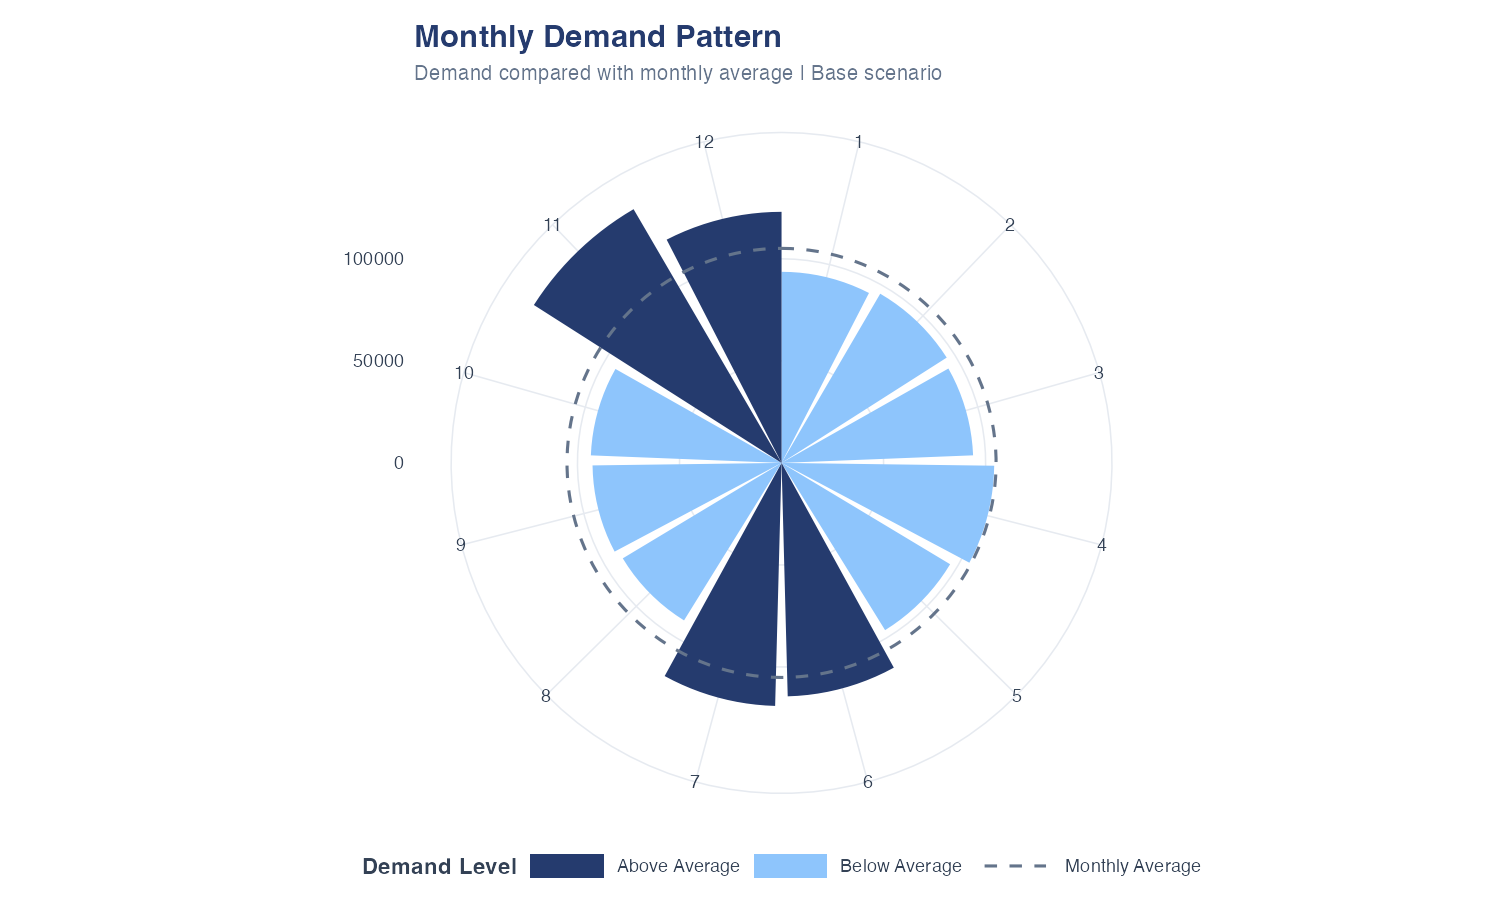
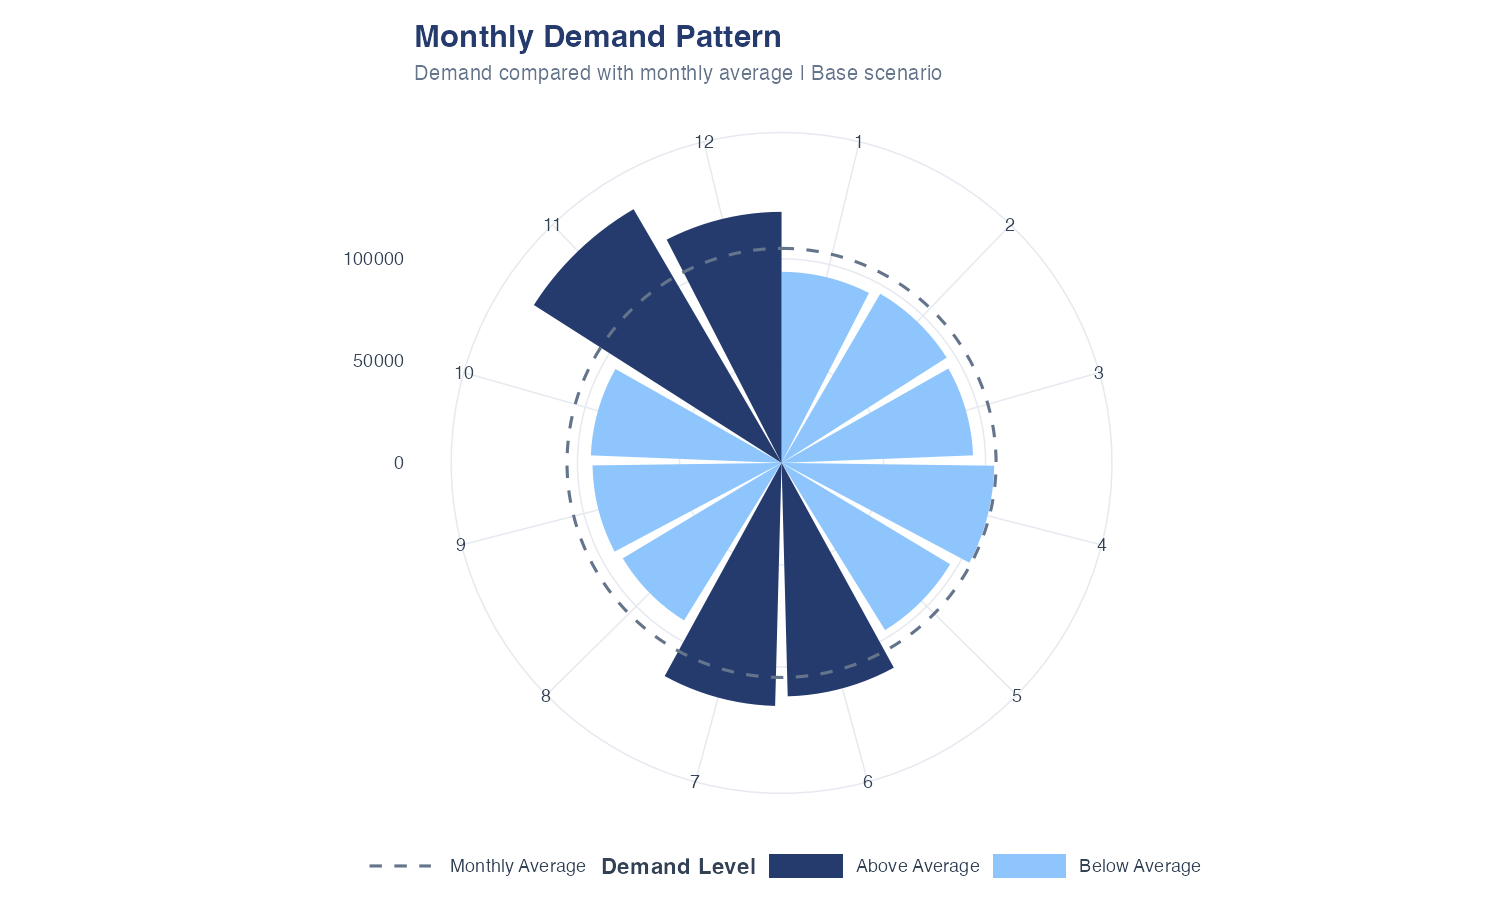
Add product demand bump chart and renumber forecast visual

Changed region(s): [[0.2453, 0.9333, 0.736, 0.9956]]

diff --git a/README.md b/README.md
@@ -481,7 +481,57 @@ ggplot(risk, aes(reorder(SKU, Shortage), Shortage)) +
 
 Mengidentifikasi SKU yang paling berkontribusi terhadap production shortage.
 
-### 6. Demand Forecast
+### 6. Bump Chart — Ranking Produk
+
+```r
+library(dplyr)
+library(ggplot2)
+library(lubridate)
+
+COLORS <- list(navy = "#253B6E", text = "#334155", white = "#FFFFFF")
+PRODUCT_COLORS <- c("Product A" = "#3F8EFC", "Product B" = "#6C5CE7", "Product C" = "#16B8A6", "Product D" = "#F26B5E")
+selected_scenario <- if ("Scenario" %in% names(dataset)) {
+  scenarios_in_visual <- unique(na.omit(as.character(dataset$Scenario)))
+  if (length(scenarios_in_visual) == 1) scenarios_in_visual else "Base"
+} else {
+  "Base"
+}
+visual_data <- dataset |> filter(Scenario == selected_scenario)
+
+df <- visual_data |>
+  mutate(
+    Tahun = year(Tanggal),
+    QuarterNum = quarter(Tanggal),
+    Quarter = paste0(Tahun, " Q", QuarterNum)
+  ) |>
+  group_by(Tahun, QuarterNum, Quarter, Produk) |>
+  summarise(Demand = sum(ScenarioDemand, na.rm = TRUE), .groups = "drop") |>
+  group_by(Quarter) |>
+  mutate(Rank = min_rank(desc(Demand))) |>
+  ungroup() |>
+  arrange(Tahun, QuarterNum)
+df$Quarter <- factor(df$Quarter, levels = unique(df$Quarter))
+
+ggplot(df, aes(Quarter, Rank, group = Produk, color = Produk)) +
+  geom_line(linewidth = 1.2, alpha = .9) +
+  geom_point(size = 4.2, fill = COLORS$white, shape = 21, stroke = 1.3) +
+  geom_text(aes(label = Rank), size = 3, color = COLORS$navy, fontface = "bold", vjust = -1.15) +
+  scale_color_manual(values = PRODUCT_COLORS, name = "Product") +
+  scale_y_reverse(breaks = 1:max(df$Rank, na.rm = TRUE), limits = c(max(df$Rank, na.rm = TRUE) + .5, .5)) +
+  labs(title = "Product Demand Ranking", subtitle = "Quarterly ranking based on demand | Base scenario", x = NULL, y = "Rank") +
+  theme_minimal(base_size = 11) +
+  theme(plot.title = element_text(face = "bold", size = 15, color = COLORS$navy),
+        plot.subtitle = element_text(size = 10, color = COLORS$text),
+        legend.position = "bottom", panel.grid.major.x = element_blank())
+```
+
+![Product Demand Ranking](output/05_demand_bump_chart.png)
+
+*Garis menghubungkan ranking produk antar kuartil; titik berlabel menunjukkan posisi demand setiap kuartal.*
+
+Menunjukkan perubahan ranking demand antar produk dari kuartal ke kuartal.
+
+### 7. Demand Forecast
 
 Forecast menggunakan **3-Month Moving Average** dan **12-Month Forward Forecast**.
 
@@ -491,51 +541,49 @@ library(dplyr)
 library(ggplot2)
 library(lubridate)
 
-COLORS <- list(navy = "#253B6E", violet = "#6C5CE7", aqua = "#16B8A6", sky = "#8EC5FC", slate = "#64748B", text = "#334155", white = "#FFFFFF")
+COLORS <- list(navy="#253B6E",violet="#6C5CE7",aqua="#16B8A6",sky="#8EC5FC",slate="#64748B",text="#334155",white="#FFFFFF")
+
 selected_scenario <- if ("Scenario" %in% names(dataset)) {
-  scenarios_in_visual <- unique(na.omit(as.character(dataset$Scenario)))
-  if (length(scenarios_in_visual) == 1) scenarios_in_visual else "Base"
-} else {
-  "Base"
-}
-visual_data <- dataset |> filter(Scenario == selected_scenario)
+  s <- unique(na.omit(as.character(dataset$Scenario)))
+  if ("Base" %in% s) "Base" else if (length(s)) s[1] else NA_character_
+} else NA_character_
+
+visual_data <- if ("Scenario" %in% names(dataset) && !is.na(selected_scenario))
+  dataset |> filter(as.character(Scenario)==selected_scenario) else dataset
 
 monthly <- visual_data |>
+  mutate(Tanggal=as.Date(Tanggal)) |>
   group_by(Tanggal) |>
-  summarise(
-    Demand = sum(ScenarioDemand),
-    Capacity = sum(Capacity),
-    .groups = "drop"
-  ) |>
+  summarise(Demand=sum(ScenarioDemand,na.rm=TRUE),Capacity=sum(Capacity,na.rm=TRUE),.groups="drop") |>
   arrange(Tanggal)
 
-df <- monthly |>
-  mutate(Forecast = (Demand + lag(Demand) + lag(Demand, 2)) / 3)
-future <- tibble(Tanggal = seq(max(df$Tanggal) %m+% months(1), max(df$Tanggal) %m+% months(12), by = "month"), Forecast = NA_real_)
-for (i in seq_len(nrow(future))) {
-  values <- c(tail(df$Demand, 3), future$Forecast[seq_len(i - 1)])
-  future$Forecast[i] <- mean(tail(values, 3), na.rm = TRUE)
+df <- monthly |> mutate(Forecast=(Demand+lag(Demand)+lag(Demand,2))/3)
+
+future <- tibble(Tanggal=seq(max(df$Tanggal,na.rm=TRUE)%m+%months(1),max(df$Tanggal,na.rm=TRUE)%m+%months(12),by="month"),Forecast=NA_real_)
+
+for(i in seq_len(nrow(future))){
+  values <- c(tail(df$Demand,3),future$Forecast[seq_len(i-1)])
+  future$Forecast[i] <- mean(tail(values,3),na.rm=TRUE)
 }
-sd_demand <- sd(df$Demand, na.rm = TRUE)
-future <- future |> mutate(Upper = Forecast + sd_demand, Lower = Forecast - sd_demand)
+
+sd_demand <- sd(df$Demand,na.rm=TRUE)
+future <- future |> mutate(Upper=Forecast+sd_demand,Lower=pmax(Forecast-sd_demand,0))
 
 ggplot() +
-  geom_ribbon(data = future, aes(Tanggal, ymin = Lower, ymax = Upper, fill = "Forecast Range"), alpha = .2) +
-  geom_line(data = df |> filter(!is.na(Forecast)), aes(Tanggal, Forecast, color = "3-Month Moving Average", linetype = "3-Month Moving Average"), linewidth = .95) +
-  geom_line(data = df, aes(Tanggal, Demand, color = "Actual Demand", linetype = "Actual Demand"), linewidth = 1.1) +
-  geom_line(data = future, aes(Tanggal, Forecast, color = "12-Month Forecast", linetype = "12-Month Forecast"), linewidth = 1.1) +
-  geom_vline(xintercept = max(df$Tanggal), linetype = "dotted", color = COLORS$slate) +
-  scale_color_manual(values = c("Actual Demand" = COLORS$navy, "3-Month Moving Average" = COLORS$violet, "12-Month Forecast" = COLORS$aqua), name = NULL) +
-  scale_linetype_manual(values = c("Actual Demand" = "solid", "3-Month Moving Average" = "dashed", "12-Month Forecast" = "dashed"), name = NULL) +
-  scale_fill_manual(values = c("Forecast Range" = COLORS$sky), name = NULL) +
-  labs(title = "Demand Forecast Band", subtitle = "Actual demand and 12-month forward forecast", x = NULL, y = "Demand") +
-  theme_minimal(base_size = 11) +
-  theme(plot.title = element_text(face = "bold", size = 15, color = COLORS$navy),
-        plot.subtitle = element_text(size = 10, color = COLORS$text),
-        legend.position = "bottom")
+  geom_ribbon(data=future,aes(Tanggal,ymin=Lower,ymax=Upper,fill="Forecast Range"),alpha=.2) +
+  geom_line(data=df |> filter(!is.na(Forecast)),aes(Tanggal,Forecast,color="3-Month Moving Average",linetype="3-Month Moving Average"),linewidth=.95) +
+  geom_line(data=df,aes(Tanggal,Demand,color="Actual Demand",linetype="Actual Demand"),linewidth=1.1) +
+  geom_line(data=future,aes(Tanggal,Forecast,color="12-Month Forecast",linetype="12-Month Forecast"),linewidth=1.1) +
+  geom_vline(xintercept=as.numeric(max(df$Tanggal,na.rm=TRUE)),linetype="dotted",color=COLORS$slate) +
+  scale_color_manual(values=c("Actual Demand"=COLORS$navy,"3-Month Moving Average"=COLORS$violet,"12-Month Forecast"=COLORS$aqua),name=NULL) +
+  scale_linetype_manual(values=c("Actual Demand"="solid","3-Month Moving Average"="dashed","12-Month Forecast"="dashed"),name=NULL) +
+  scale_fill_manual(values=c("Forecast Range"=COLORS$sky),name=NULL) +
+  labs(title="Demand Forecast Band",subtitle="Actual demand and 12-month forward forecast",x=NULL,y="Demand") +
+  theme_minimal(base_size=11) +
+  theme(plot.title=element_text(face="bold",size=15,color=COLORS$navy),plot.subtitle=element_text(size=10,color=COLORS$text),legend.position="bottom")
 ```
 
-![Demand Forecast Band](output/05_demand_forecast_band.png)
+![Demand Forecast Band](output/06_demand_forecast_band.png)
 
 *Actual Demand ditampilkan sebagai garis solid; 3-Month Moving Average dan 12-Month Forecast sebagai garis dashed; area biru muda menunjukkan forecast range.*
 
@@ -599,6 +647,7 @@ Scenario Slicer
 
 ```text
 Demand Distribution
+Product Demand Ranking
 SKU Capacity Risk Pareto
 Demand Forecast
 Scenario Slicer
